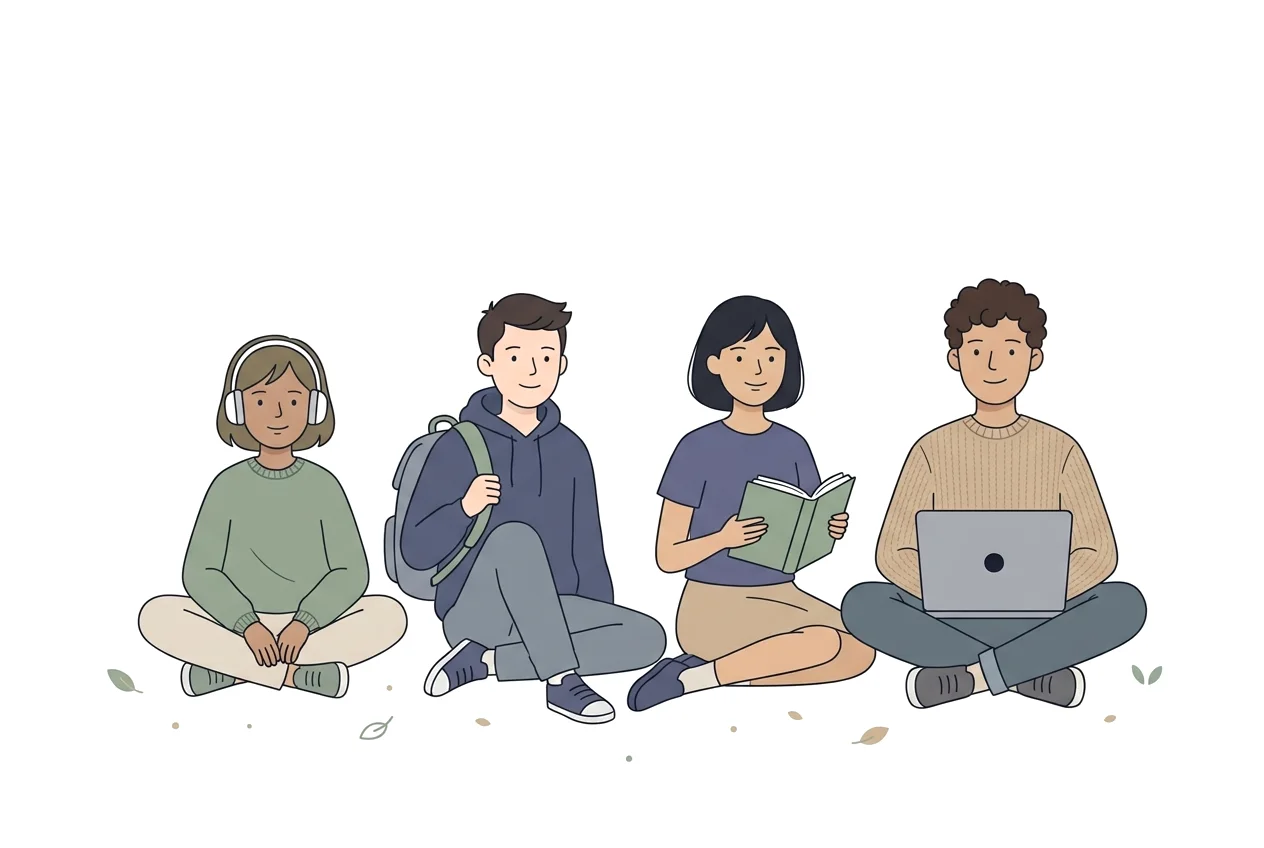
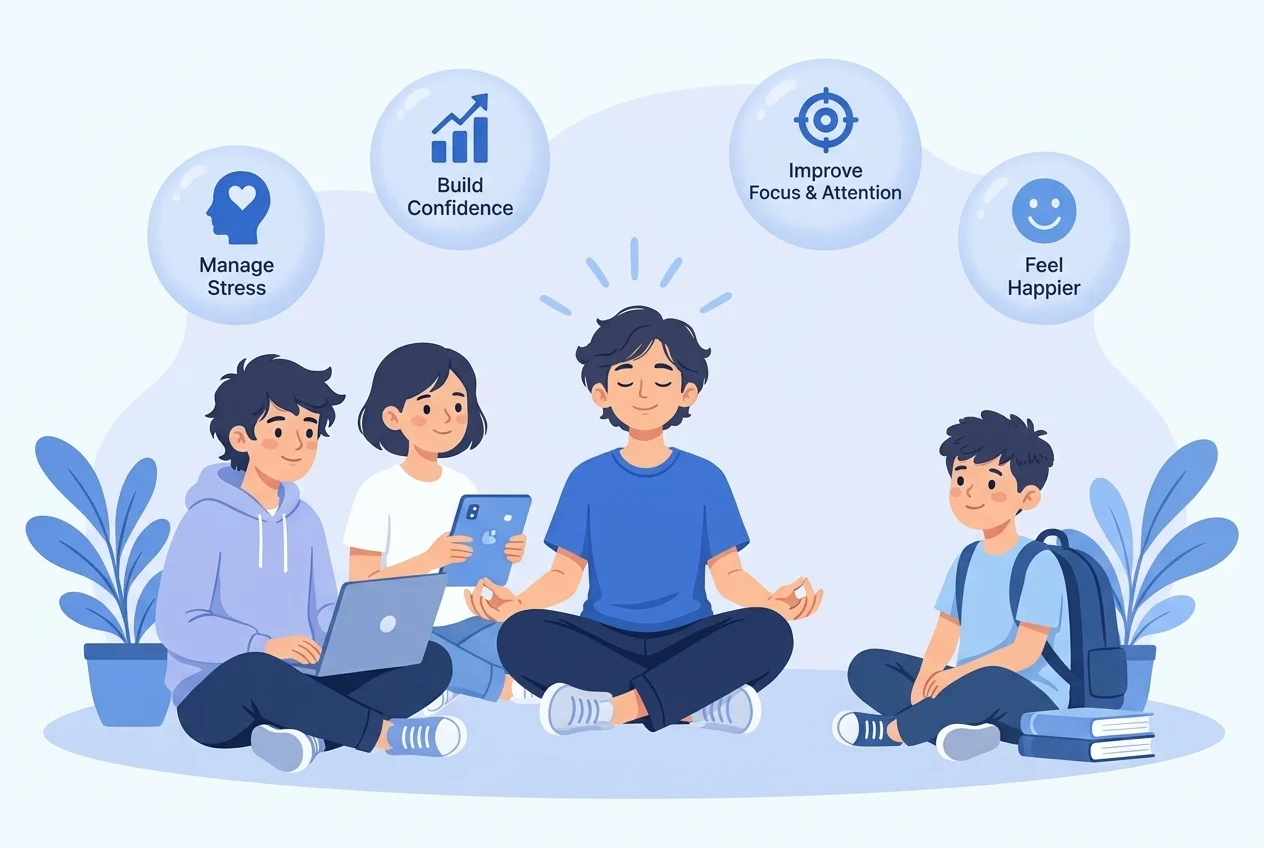
## New hero picture on the Biglyp home page The hero picture is replaced with a new illustration modelled on your image. I checked it with screenshots on desktop and on a phone; the page doesn't spill sideways on the phone. I didn't run a separate automated test, since only the picture and its layou
- **What it shows:** it keeps your image's calm blue look on a very light background. Four students of different ages sit together, with the one in the middle meditating. The students are kept gender-neutral, in line with your earlier request. They have a backpack, books, a tablet and a laptop, with soft leafy plants on each side.
- **The four bubbles:** above them are "Manage Stress", "Build Confidence", "Improve Focus & Attention" and "Feel Happier". I checked that the words in the picture are spelled correctly.
- **Layout:** the picture is now a bit bigger, with rounded corners and a soft shadow. The "One check-in, one plan" note sits just below the picture instead of covering the students.

Next Action Items:
- **Clickable Hero Bubbles**: Make each hero bubble open the programme that fits it best, like "Improve Focus & Attention" opening FocusEdge
- **Programme Finder**: Add a two-question "Which one fits me?" helper under the product cards that points each visitor to the right programme
- **Hub Testimonials**: Show a calm strip of short student and parent quotes for each product under the switcher
- **Parent Summary Card**: Make a simple weekly progress card FocusEdge students can choose to share with a parent

Emergent-Commit-Key: 20e8e305c426c356c23a47ea4aacfe02f058537efd1458dff797c4ec511ecc8f

diff --git a/frontend/src/pages/BiglypHome.jsx b/frontend/src/pages/BiglypHome.jsx
@@ -32,7 +32,7 @@ const BiglypMark = () => (
 
 const CommonHero = () => (
   <section data-testid="biglyp-hero" className="relative overflow-hidden">
-    <div className="relative max-w-6xl mx-auto px-4 sm:px-8 pt-10 pb-16 lg:pt-16 lg:pb-20 grid lg:grid-cols-[1.05fr_1fr] gap-10 items-center">
+    <div className="relative max-w-6xl mx-auto px-4 sm:px-8 pt-10 pb-16 lg:pt-16 lg:pb-20 grid lg:grid-cols-[1fr_1.15fr] gap-10 items-center">
       <div>
         <span className="inline-flex items-center gap-2 rounded-full bg-white/80 border border-slate-200 px-4 py-1.5 text-xs font-medium text-slate-600"><ShieldCheck className="h-3.5 w-3.5 text-[#2d8a7c]" /> Private · Non-diagnostic · Made in India</span>
         <h1 data-testid="biglyp-hero-title" className="mt-6 font-serif text-4xl sm:text-5xl lg:text-6xl font-bold text-slate-900 leading-[1.05]">Small, honest steps to a <em className="text-[#5a5fc8]">calmer, more focused</em> you.</h1>
@@ -48,8 +48,8 @@ const CommonHero = () => (
         </div>
       </div>
       <div className="relative">
-        <img src="/how/biglyp_hero.webp?v=4" alt="Students of different ages relaxing together with books, a tablet and a laptop" data-testid="biglyp-hero-art" draggable={false} className="w-full h-auto select-none mix-blend-multiply" />
-        <div className="absolute bottom-4 left-2 sm:left-6 rounded-2xl bg-white/90 backdrop-blur shadow-lg border border-slate-100 px-4 py-3 flex items-center gap-3">
+        <img src="/how/biglyp_hero.webp?v=5" alt="Four students sitting together calmly, with bubbles for Manage Stress, Build Confidence, Improve Focus and Attention, and Feel Happier" data-testid="biglyp-hero-art" draggable={false} className="w-full h-auto select-none rounded-[2rem] shadow-[0_30px_70px_-45px_rgba(37,99,235,0.45)]" />
+        <div className="absolute -bottom-6 left-4 sm:left-8 rounded-2xl bg-white/95 backdrop-blur shadow-lg border border-slate-100 px-4 py-3 flex items-center gap-3">
           <CalendarCheck className="h-5 w-5 text-[#2d8a7c]" />
           <div className="text-xs"><div className="font-semibold text-slate-800">One check-in, one plan</div><div className="text-slate-500">Tiny steps, tracked daily</div></div>
         </div>

diff --git a/memory/PRD.md b/memory/PRD.md
@@ -156,3 +156,4 @@ User choices: mocked login (3 students + admin), Student role, AI-written narrat
 ## 2026-11-13 Hub fixes
 - Bug: signed-in users couldn't switch hub products / product tabs (auth.jsx forced the user's brand on every render). Fix: brand forcing removed from auth; App.js Guard applies the user's own brand (admin = EquiMind) on signed-in routes and waits for it; Landing/BiglypHome re-apply their own brand when it differs. Verified iteration_28: 58/58.
 - Hub: logo sub-line "Wellbeing", title "Biglyp Wellbeing", clean calm hero image (/how/biglyp_hero.webp?v=4, no blurred colour blobs, plain white page), header button "Go to my dashboard" when signed in.
+- 2026-11-13: Hub hero image replaced with a user-reference-inspired blue 'wellness circle' illustration (4 gender-neutral students + bubbles Manage Stress / Build Confidence / Improve Focus & Attention / Feel Happier), /how/biglyp_hero.webp?v=5, rounded with soft shadow; hero grid 1fr/1.15fr.
